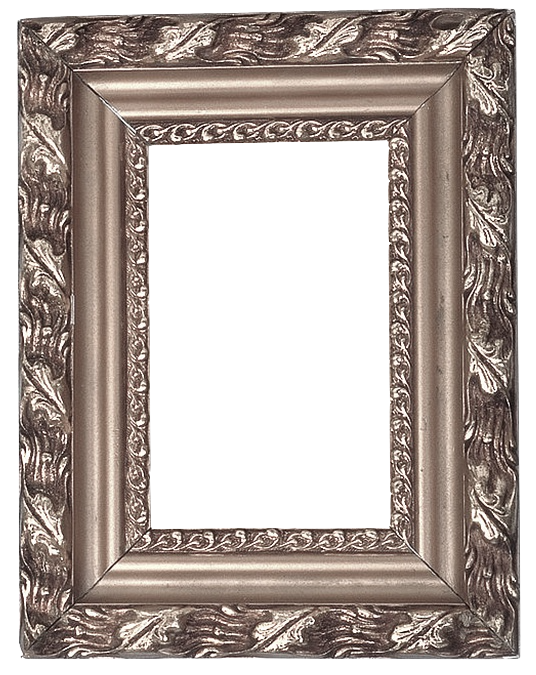
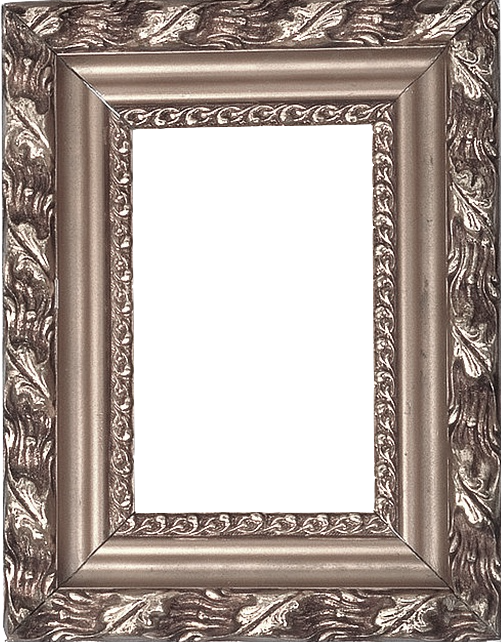
surbrillance et salle 1 user 1 bien agencé merci a tous

diff --git a/app/assets/stylesheets/pages/_s1u1.scss b/app/assets/stylesheets/pages/_s1u1.scss
@@ -4,39 +4,42 @@
   // top: -181px;
   // right: -23px;
   top: -2px;
-  right: 320px;
+  right: 248px;
 }
 
 .frame101-img {
-  top: -511px;
-  left: -124px;
+  top: -329px;
+  left: -175px;
 }
 
 .frame102-img {
-  top: -410px;
-  left: 472px;
+  top: -284px;
+  left: 407px;
+  height: 116px;
 }
 
 .frame103-img {
-  top: -346px;
-  left: -340px;
+  top: -223px;
+  left: -187px;
+  height: 108px;
 }
 
 .frame104-img {
-  top: -558px;
-  left: 524px;
+  top: -424px;
+  left: 414px;
+  height: 94px;
 }
 
 .frame105-img {
-  top: -512px;
-  left: 603px;
+  top: -401px;
+  left: 525px;
+  height: 130px;
 }
 
 .carpet2-img {
   // top: 511px;
-  // right: -258px;
-  bottom: 0;
-  left: calc(50vw - 397px);
+  right: -145px;
+  bottom: 2px;
 }
 
 .storage1-img {
@@ -48,7 +51,7 @@
   // top: 316px;
   // right: -386px;
   bottom: 127px;
-  right: 167px;
+  right: -78px;
   height: 197px;
 }
 
@@ -61,19 +64,21 @@
 .frame {
   transform: translate(-50%, -50%);
   &:nth-child(1) {
-    top: -265px;
-    left: -48px;
+    height: 157px;
+    top: -325.4px;
+    left: -102px;
   }
   &:nth-child(2) {
-    top: -455px;
-    left: -227px;
+    top: -500px;
+    left: -167px;
+    height: 150px;
   }
   &:nth-child(3) {
-    top: -266px;
-    left: 681px;
+    top: -237px;
+    left: 493px;
+    height: 150px;
   }
 }
-
 
 // c'est dans la show lol (pour que le jeux prennent la place maximale de l'écran sans soucie)
 .full-height-game-content {

diff --git a/app/assets/stylesheets/components/_tryout_style.scss b/app/assets/stylesheets/components/_tryout_style.scss
@@ -76,3 +76,42 @@
     background-size: cover;
   }
 }
+
+.button-blue:hover {
+  color: #000000;
+  box-shadow:
+
+              0 0 5px rgba(255, 255, 255, 0.946),
+              0 0 25px rgba(255, 254, 254, 0.754),
+              0 0 50px rgba(255, 255, 255, 0.956),
+              0 0 75px rgb(252, 252, 252),
+              0 0 205px rgb(252, 252, 252);
+  text-decoration-line: none;
+
+}
+
+.button-red:hover {
+  color: #000000;
+  box-shadow:
+
+              0 0 5px rgba(255, 255, 255, 0.946),
+              0 0 25px rgba(255, 254, 254, 0.754),
+              0 0 50px rgba(255, 255, 255, 0.956),
+              0 0 75px rgb(252, 252, 252),
+              0 0 205px rgb(252, 252, 252);
+  text-decoration-line: none;
+
+}
+
+.button-green:hover {
+  color: #000000;
+  box-shadow:
+
+              0 0 5px rgba(255, 255, 255, 0.946),
+              0 0 25px rgba(255, 254, 254, 0.754),
+              0 0 50px rgba(255, 255, 255, 0.956),
+              0 0 75px rgb(252, 252, 252),
+              0 0 205px rgb(252, 252, 252);
+  text-decoration-line: none;
+
+}

diff --git a/app/assets/stylesheets/components/_surbrillance.scss b/app/assets/stylesheets/components/_surbrillance.scss
@@ -1,0 +1,17 @@
+.surbrillance {
+
+}
+
+.surbrillance:hover {
+  color: #000000;
+  box-shadow:
+  inset 0 0 5px rgba(255, 255, 255, 0.946),
+  inset 0 0 25px rgba(255, 255, 255, 0.946),
+  inset 0 0 50px rgba(255, 255, 255, 0.946),
+              0 0 5px rgba(255, 255, 255, 0.946),
+              0 0 25px rgba(255, 254, 254, 0.754),
+              0 0 50px rgba(255, 255, 255, 0.956),
+              0 0 75px rgb(252, 252, 252);
+  text-decoration-line: none;
+
+}

diff --git a/app/assets/stylesheets/components/_frames.scss b/app/assets/stylesheets/components/_frames.scss
@@ -21,8 +21,8 @@
     pointer-events: none;
   }
   & button {
-    width: 70%;
-    height: 65%;
+    width: 54%;
+    height: 66%;
   }
 }
 
@@ -42,8 +42,8 @@
     pointer-events: none;
   }
   & button {
-    width: 70%;
-    height: 60%;
+    width: 40%;
+    height: 65%;
   }
 }
 
@@ -63,7 +63,7 @@
     pointer-events: none;
   }
   & button {
-    width: 60%;
+    width: 45%;
     height: 80%;
   }
 }

diff --git a/app/assets/stylesheets/components/_floor.scss b/app/assets/stylesheets/components/_floor.scss
@@ -9,7 +9,7 @@
     image-url("marble-floor.jpg");
   background-size: cover;
   width: 99vw;
-  height: 27vh;
+  height: 30vh;
   position: fixed;
   bottom: 0;
   left: 0vw;

diff --git a/app/assets/stylesheets/components/_index.scss b/app/assets/stylesheets/components/_index.scss
@@ -17,3 +17,4 @@
 @import "floor";
 @import "moving_object_effects";
 @import "overlay";
+@import "surbrillance";
